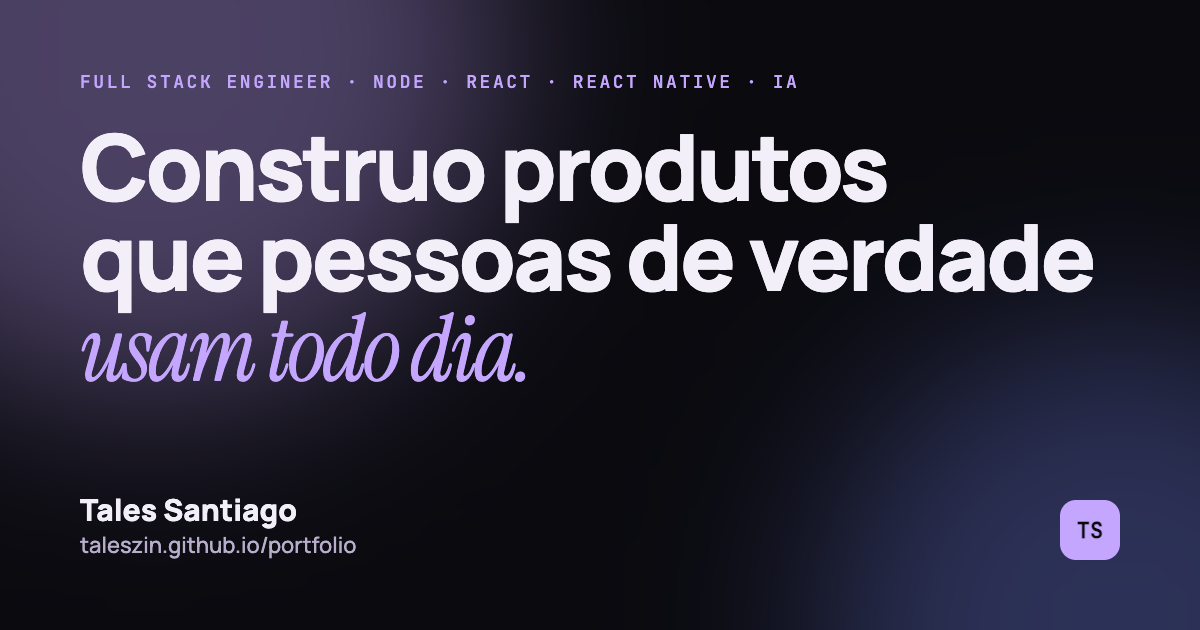
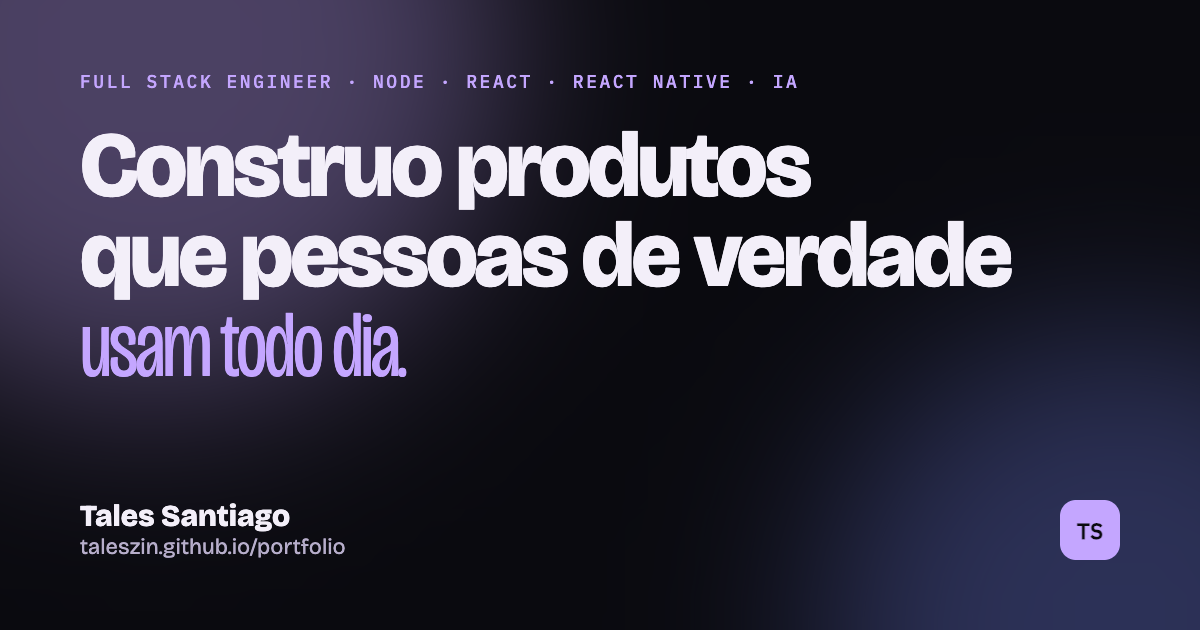
feat(portfolio): jogos ganham destaque no lugar dos projetos secundários e nova tipografia
Seção de jogos sobe para logo após os produtos, com manifesto e números
próprios; sai o bloco de projetos secundários. Títulos em Bricolage Grotesque,
texto em IBM Plex Sans e IBM Plex Mono, sem a serifa itálica. Imagem Open Graph
regenerada com a mesma tipografia.

Claude-Session: https://claude.ai/code/session_01TG5NDzrhkUQQ5xuFkiTxCV

diff --git a/styles.css b/styles.css
@@ -7,9 +7,9 @@
   --line: rgba(255, 255, 255, 0.08);
   --accent: #c4a6ff;
   --accent-ink: #0a0a0f;
-  --serif: "Instrument Serif", Georgia, "Times New Roman", serif;
-  --sans: "Manrope", system-ui, -apple-system, "Segoe UI", sans-serif;
-  --mono: "JetBrains Mono", ui-monospace, SFMono-Regular, Menlo, monospace;
+  --display: "Bricolage Grotesque", "Helvetica Neue", Arial, sans-serif;
+  --sans: "IBM Plex Sans", system-ui, -apple-system, "Segoe UI", sans-serif;
+  --mono: "IBM Plex Mono", ui-monospace, SFMono-Regular, Menlo, monospace;
   --pad: clamp(20px, 5vw, 96px);
   --radius: 22px;
   --ease: cubic-bezier(0.22, 1, 0.36, 1);
@@ -35,10 +35,10 @@ body::before {
 }
 img { max-width: 100%; height: auto; display: block; }
 a { color: inherit; text-decoration: none; }
-h1, h2, h3, h4 { margin: 0; font-weight: 700; letter-spacing: -0.02em; line-height: 1.05; }
+h1, h2, h3, h4 { margin: 0; font-family: var(--display); font-weight: 700; font-variation-settings: "opsz" 96, "wdth" 100; letter-spacing: -0.02em; line-height: 1.05; }
 p { margin: 0; }
 ul, ol { margin: 0; padding: 0; list-style: none; }
-.serif { font-family: var(--serif); font-weight: 400; font-style: italic; letter-spacing: 0; }
+.serif { font-family: var(--display); font-weight: 300; font-variation-settings: "opsz" 96, "wdth" 78; letter-spacing: -0.01em; }
 em.serif { color: var(--accent); transition: color .8s var(--ease); }
 ::selection { background: var(--accent); color: var(--accent-ink); }
 
@@ -83,8 +83,9 @@ h2 { font-size: clamp(34px, 5.4vw, 76px); max-width: 16ch; margin-top: 18px; }
 .lead { max-width: 60ch; color: var(--ink-2); font-size: clamp(17px, 1.4vw, 21px); margin-top: 22px; }
 
 /* hero */
+.games { padding-top: 40px; }
 .hero { min-height: 100svh; display: flex; flex-direction: column; justify-content: center; padding-top: 120px; padding-bottom: 80px; position: relative; }
-.hero-title { font-size: clamp(42px, 6.9vw, 108px); line-height: .96; letter-spacing: -0.035em; margin-top: 22px; }
+.hero-title { font-size: clamp(42px, 6.9vw, 108px); line-height: .94; letter-spacing: -0.04em; margin-top: 22px; font-weight: 800; }
 .hero-title .line { display: block; overflow: hidden; }
 .hero-title .word { display: inline-block; transform: translateY(110%); animation: rise 1.1s var(--ease) forwards; }
 .hero-title .line:nth-child(2) .word { animation-delay: .1s; }
@@ -98,7 +99,7 @@ h2 { font-size: clamp(34px, 5.4vw, 76px); max-width: 16ch; margin-top: 18px; }
 .btn-ghost { border: 1px solid rgba(255,255,255,.18); color: var(--ink); }
 .btn-ghost:hover { border-color: var(--ink); }
 .hero-stats { display: grid; grid-template-columns: repeat(4, 1fr); gap: 20px; margin-top: 72px; padding-top: 32px; border-top: 1px solid var(--line); }
-.hero-stats strong { display: block; font-size: clamp(30px, 3.4vw, 48px); font-weight: 800; letter-spacing: -0.03em; line-height: 1; }
+.hero-stats strong { display: block; font-family: var(--display); font-size: clamp(30px, 3.4vw, 48px); font-weight: 800; letter-spacing: -0.03em; line-height: 1; }
 .hero-stats li > span { display: block; margin-top: 8px; color: var(--ink-3); font-size: 14px; max-width: 22ch; }
 .scroll-hint { position: absolute; bottom: 28px; left: var(--pad); width: 1px; height: 56px; background: var(--line); overflow: hidden; }
 .scroll-hint span { display: block; width: 100%; height: 50%; background: var(--accent); animation: drop 1.8s var(--ease) infinite; }
@@ -118,7 +119,7 @@ h2 { font-size: clamp(34px, 5.4vw, 76px); max-width: 16ch; margin-top: 18px; }
 .project-body h3 { font-size: clamp(28px, 3.2vw, 46px); margin-top: 22px; letter-spacing: -0.03em; max-width: 20ch; }
 .project-head { display: flex; align-items: center; gap: 16px; flex-wrap: wrap; }
 .project-logo { height: 38px; width: auto; }
-.text-logo { font-family: var(--serif); font-style: italic; font-size: 30px; line-height: 1; }
+.text-logo { font-family: var(--display); font-weight: 600; font-variation-settings: "wdth" 85; font-size: 28px; line-height: 1; }
 .badge { font: 500 11px var(--mono); letter-spacing: .1em; text-transform: uppercase; padding: 6px 10px; border-radius: 999px; border: 1px solid var(--line); color: var(--ink-2); }
 .badge.live::before { content: ""; display: inline-block; width: 6px; height: 6px; border-radius: 50%; background: #5ef29a; margin-right: 8px; box-shadow: 0 0 0 0 rgba(94,242,154,.6); animation: pulse 2s infinite; }
 @keyframes pulse { 70% { box-shadow: 0 0 0 8px rgba(94,242,154,0); } 100% { box-shadow: 0 0 0 0 rgba(94,242,154,0); } }
@@ -129,7 +130,7 @@ h2 { font-size: clamp(34px, 5.4vw, 76px); max-width: 16ch; margin-top: 18px; }
 .bullets li::before { content: ""; position: absolute; left: 0; top: .62em; width: 10px; height: 2px; background: var(--accent); transition: background .8s var(--ease); }
 .metrics { display: grid; grid-template-columns: repeat(2, 1fr); gap: 14px; margin-top: 30px; }
 .metrics li { padding: 18px; border: 1px solid var(--line); border-radius: 16px; background: rgba(255,255,255,.02); }
-.metrics strong { display: block; font-size: 32px; font-weight: 800; letter-spacing: -0.03em; line-height: 1; color: var(--ink); }
+.metrics strong { display: block; font-family: var(--display); font-size: 32px; font-weight: 800; letter-spacing: -0.03em; line-height: 1; color: var(--ink); }
 .metrics li > span { display: block; margin-top: 8px; color: var(--ink-3); font-size: 13px; line-height: 1.4; }
 .chips { display: flex; flex-wrap: wrap; gap: 8px; margin-top: 26px; }
 .chips span { font: 500 12px var(--mono); padding: 6px 10px; border-radius: 8px; background: rgba(255,255,255,.05); color: var(--ink-2); }
@@ -166,7 +167,7 @@ h2 { font-size: clamp(34px, 5.4vw, 76px); max-width: 16ch; margin-top: 18px; }
 .also-card { display: flex; flex-direction: column; border: 1px solid var(--line); border-radius: var(--radius); overflow: hidden; background: rgba(255,255,255,.02); transition: transform .5s var(--ease), border-color .3s; }
 .also-card:hover { transform: translateY(-6px); border-color: rgba(255,255,255,.2); }
 .also-card img, .also-art { aspect-ratio: 16 / 10; object-fit: cover; object-position: top; width: 100%; }
-.also-art { display: grid; place-content: center; background: radial-gradient(circle at 30% 20%, rgba(196,166,255,.35), transparent 60%), #15121f; font-family: var(--serif); font-style: italic; font-size: 56px; line-height: .9; color: var(--ink); }
+.also-art-unused { display: grid; place-content: center; background: radial-gradient(circle at 30% 20%, rgba(196,166,255,.35), transparent 60%), #15121f; font-family: var(--serif); font-style: italic; font-size: 56px; line-height: .9; color: var(--ink); }
 .also-art span:last-child { padding-left: 1.4em; color: var(--accent); }
 .also-card h4 { font-size: 22px; padding: 22px 22px 0; }
 .also-card p { padding: 10px 22px 0; color: var(--ink-2); font-size: 15px; flex: 1; }
@@ -175,11 +176,15 @@ h2 { font-size: clamp(34px, 5.4vw, 76px); max-width: 16ch; margin-top: 18px; }
 /* games */
 .games { padding: 0; }
 .games-sticky { position: sticky; top: 0; height: 100svh; overflow: hidden; display: flex; flex-direction: column; padding: 96px var(--pad) 32px; }
-.games-head { display: flex; align-items: end; justify-content: space-between; gap: 40px; flex-wrap: wrap; }
+.games-head { display: grid; grid-template-columns: 1.1fr 1fr; align-items: end; gap: 40px; }
+.games-manifesto { display: grid; gap: 22px; }
+.games-stats { display: flex; gap: 28px; padding-top: 18px; border-top: 1px solid var(--line); }
+.games-stats strong { display: block; font-family: var(--display); font-size: 34px; font-weight: 800; line-height: 1; letter-spacing: -0.03em; }
+.games-stats li > span { display: block; margin-top: 6px; color: var(--ink-3); font-size: 13px; }
 .games-head h2 { margin-top: 12px; }
-.games-lead { max-width: 40ch; color: var(--ink-2); }
+.games-lead { max-width: 52ch; color: var(--ink-2); font-size: 16.5px; }
 .games-track { display: flex; gap: 32px; margin-top: 36px; will-change: transform; flex: 1; align-items: stretch; }
-.game { flex: 0 0 min(88vw, 1040px); display: grid; grid-template-columns: 1.15fr 1fr; gap: 28px; border: 1px solid var(--line); border-radius: var(--radius); background: rgba(255,255,255,.025); overflow: hidden; }
+.game { flex: 0 0 min(90vw, 1120px); display: grid; grid-template-columns: 1.15fr 1fr; gap: 28px; border: 1px solid var(--line); border-radius: var(--radius); background: rgba(255,255,255,.025); overflow: hidden; }
 .game figure { margin: 0; position: relative; min-height: 260px; }
 .game figure img { position: absolute; inset: 0; width: 100%; height: 100%; object-fit: cover; transition: opacity .6s var(--ease); }
 .game figure img.alt { opacity: 0; }
@@ -187,7 +192,7 @@ h2 { font-size: clamp(34px, 5.4vw, 76px); max-width: 16ch; margin-top: 18px; }
 .game-body { padding: 28px 28px 28px 0; display: flex; flex-direction: column; overflow: auto; }
 .game-kicker { font: 500 12px var(--mono); letter-spacing: .08em; text-transform: uppercase; color: var(--g); }
 .game-kicker b { font-weight: 500; color: var(--ink); }
-.game h3 { font-size: clamp(30px, 3vw, 44px); margin-top: 10px; letter-spacing: -0.01em; }
+.game h3 { font-size: clamp(34px, 3.6vw, 54px); margin-top: 10px; letter-spacing: -0.02em; font-weight: 800; }
 .game-body > p:not(.game-kicker):not(.chips) { margin-top: 14px; color: var(--ink-2); font-size: 15px; }
 .game-facts { margin-top: 16px; display: grid; gap: 6px; }
 .game-facts li { font: 500 13px var(--mono); color: var(--ink-2); }
@@ -261,6 +266,7 @@ h2 { font-size: clamp(34px, 5.4vw, 76px); max-width: 16ch; margin-top: 18px; }
   .flip .project-media > .phone:first-child { margin-left: 0; }
   .chat-card { position: relative; margin-top: -30px; margin-left: auto; }
   .games-sticky { position: static; height: auto; overflow: visible; padding-top: 100px; }
+  .games-head { grid-template-columns: 1fr; }
   .games-track { flex-direction: column; transform: none !important; gap: 20px; }
   .game { flex-basis: auto; grid-template-columns: 1fr; }
   .game figure { min-height: 220px; aspect-ratio: 16 / 9; }

diff --git a/index.html b/index.html
@@ -21,7 +21,7 @@
 <link rel="icon" href="assets/favicon.svg" type="image/svg+xml">
 <link rel="preconnect" href="https://fonts.googleapis.com">
 <link rel="preconnect" href="https://fonts.gstatic.com" crossorigin>
-<link href="https://fonts.googleapis.com/css2?family=Instrument+Serif:ital@0;1&family=Manrope:wght@400;500;600;700;800&family=JetBrains+Mono:wght@400;500&display=swap" rel="stylesheet">
+<link href="https://fonts.googleapis.com/css2?family=Bricolage+Grotesque:opsz,wdth,wght@12..96,75..100,200..800&family=IBM+Plex+Sans:wght@400;500;600&family=IBM+Plex+Mono:wght@400;500&display=swap" rel="stylesheet">
 <link rel="stylesheet" href="styles.css">
 <script type="application/ld+json">
 {"@context":"https://schema.org","@type":"Person","name":"Tales Santiago","jobTitle":"Full Stack Engineer","url":"https://taleszin.github.io/portfolio/","email":"mailto:santiagold116@gmail.com","address":{"@type":"PostalAddress","addressLocality":"Fortaleza","addressRegion":"CE","addressCountry":"BR"},"alumniOf":{"@type":"CollegeOrUniversity","name":"Universidade Estadual do Ceará"},"sameAs":["https://github.com/taleszin"],"knowsAbout":["Node.js","TypeScript","React","React Native","LLM","ASP.NET Core","FastAPI","PostgreSQL","WebGL"]}
@@ -182,38 +182,22 @@
   </div>
 </article>
 
-<!-- TAMBÉM NO AR -->
-<section class="also" data-accent="#c4a6ff">
-  <p class="eyebrow reveal" data-i18n="also.eyebrow">Também no ar</p>
-  <div class="also-grid">
-    <a class="also-card reveal" href="https://basquete-cearense.vercel.app" target="_blank" rel="noopener">
-      <img src="assets/img/basquete-home.webp" alt="Site Basquete Cearense" loading="lazy" width="1440" height="900">
-      <h4>Basquete Cearense</h4>
-      <p data-i18n="also.basquete">Panorama do basquete adulto do Ceará: 916 cartas de atletas e 51 equipes com um índice técnico próprio. Súmulas, fichas e um pipeline que lê o placar de transmissões por visão computacional.</p>
-      <span class="chips"><span>React</span><span>Python</span><span>OpenCV</span></span>
-    </a>
-    <a class="also-card reveal" href="https://edutopia.online" target="_blank" rel="noopener">
-      <img src="assets/img/edutopia-lp.webp" alt="Landing do Edutopia" loading="lazy" width="1200" height="1521">
-      <h4>Edutopia</h4>
-      <p data-i18n="also.edutopia">Professores geram provas, atividades, planos de aula e jogos educativos com IA em cerca de trinta segundos, prontos para exportar em PDF e DOCX.</p>
-      <span class="chips"><span>Next.js</span><span>Node</span><span>Supabase</span><span>OpenAI</span></span>
-    </a>
-    <a class="also-card reveal" href="https://github.com/taleszin" target="_blank" rel="noopener">
-      <div class="also-art" aria-hidden="true"><span>ENEM</span><span>Bot</span></div>
-      <h4>ENEMBot</h4>
-      <p data-i18n="also.enembot">Tutor conversacional para o ENEM no método Feynman: conduz o aluno à resposta em vez de entregá-la, com pontuação, ofensivas e dificuldade adaptativa.</p>
-      <span class="chips"><span>Next.js</span><span>Node</span><span>OpenAI</span></span>
-    </a>
-  </div>
-</section>
-
 <!-- JOGOS -->
 <section id="jogos" class="games" data-accent="#3ef2d6">
   <div class="games-sticky">
     <header class="games-head">
-      <p class="eyebrow" data-i18n="games.eyebrow">02 · Jogos autorais</p>
-      <h2><span data-i18n="games.title">Motores, arte e som</span> <em class="serif" data-i18n="games.title2">feitos do zero.</em></h2>
-      <p class="games-lead" data-i18n="games.lead">Nenhum dos três usa engine pronta nem asset comprado. Cada um tem uma direção de arte própria, escrita em código.</p>
+      <div>
+        <p class="eyebrow" data-i18n="games.eyebrow">02 · Jogos autorais</p>
+        <h2><span data-i18n="games.title">Motores, arte e som</span> <em class="serif" data-i18n="games.title2">feitos do zero.</em></h2>
+      </div>
+      <div class="games-manifesto">
+        <p class="games-lead" data-i18n="games.lead">É o lado autoral do trabalho. Nenhum dos três usa engine pronta nem asset comprado: o motor, a direção de arte, a trilha e a física saíram do mesmo editor de código. Um deles saiu campeão da disciplina na UECE.</p>
+        <ul class="games-stats" aria-label="Jogos em números">
+          <li><strong>3</strong><span data-i18n="games.s1">jogos publicados</span></li>
+          <li><strong>0</strong><span data-i18n="games.s2">assets comprados</span></li>
+          <li><strong>1</strong><span data-i18n="games.s3">motor WebGL escrito à mão</span></li>
+        </ul>
+      </div>
     </header>
     <div class="games-track" id="games-track">
       <article class="game" style="--g:#7ed957">

diff --git a/app.js b/app.js
@@ -40,12 +40,8 @@
     'phc.b2': 'OCR and PDF reconciliation pipeline that made thousands of academic articles searchable.',
     'phc.b3': 'Full-text search over 2.5 million headlines, a curation panel for conversations and an automatic monthly report for the stakeholder.',
     'phc.m1': 'searchable headlines', 'phc.m2': 'issues from 133 newspapers', 'phc.m3': 'conversations answered by IAcema', 'phc.m4': 'newspaper reading sessions',
-    'also.eyebrow': 'Also live',
-    'also.basquete': 'A panorama of adult basketball in Ceará: 916 player cards and 51 teams on a custom technical index. Box scores, stat sheets and a pipeline that reads the scoreboard from broadcasts with computer vision.',
-    'also.edutopia': 'Teachers generate tests, activities, lesson plans and educational games with AI in about thirty seconds, ready to export as PDF and DOCX.',
-    'also.enembot': 'A conversational tutor for the ENEM exam using the Feynman method: it leads the student to the answer instead of handing it over, with scoring, streaks and adaptive difficulty.',
     'games.eyebrow': '02 · Original games', 'games.title': 'Engines, art and sound', 'games.title2': 'built from scratch.',
-    'games.lead': 'None of the three uses an off-the-shelf engine or purchased assets. Each has its own art direction, written in code.',
+    'games.lead': 'This is the authorial side of the work. None of the three uses an off-the-shelf engine or purchased assets: the engine, the art direction, the soundtrack and the physics came out of the same code editor. One of them won its course category at UECE.', 'games.s1': 'games published', 'games.s2': 'purchased assets', 'games.s3': 'hand-written WebGL engine',
     'game.fuel.k': 'Management sim · 3D · web and Android',
     'game.fuel.p': 'A Brazilian roadside gas station for you to run. Low-poly town, day and night cycle, rain, storms and wind dust, all generated in code: the game does not load a single art image. Customer queues, a tanker truck, electric cars and a progression track that closes the loop.',
     'game.fuel.f1': '100% procedural, zero binary assets', 'game.fuel.f2': 'Portuguese, English and Spanish', 'game.fuel.f3': 'Own telemetry with PostHog',
